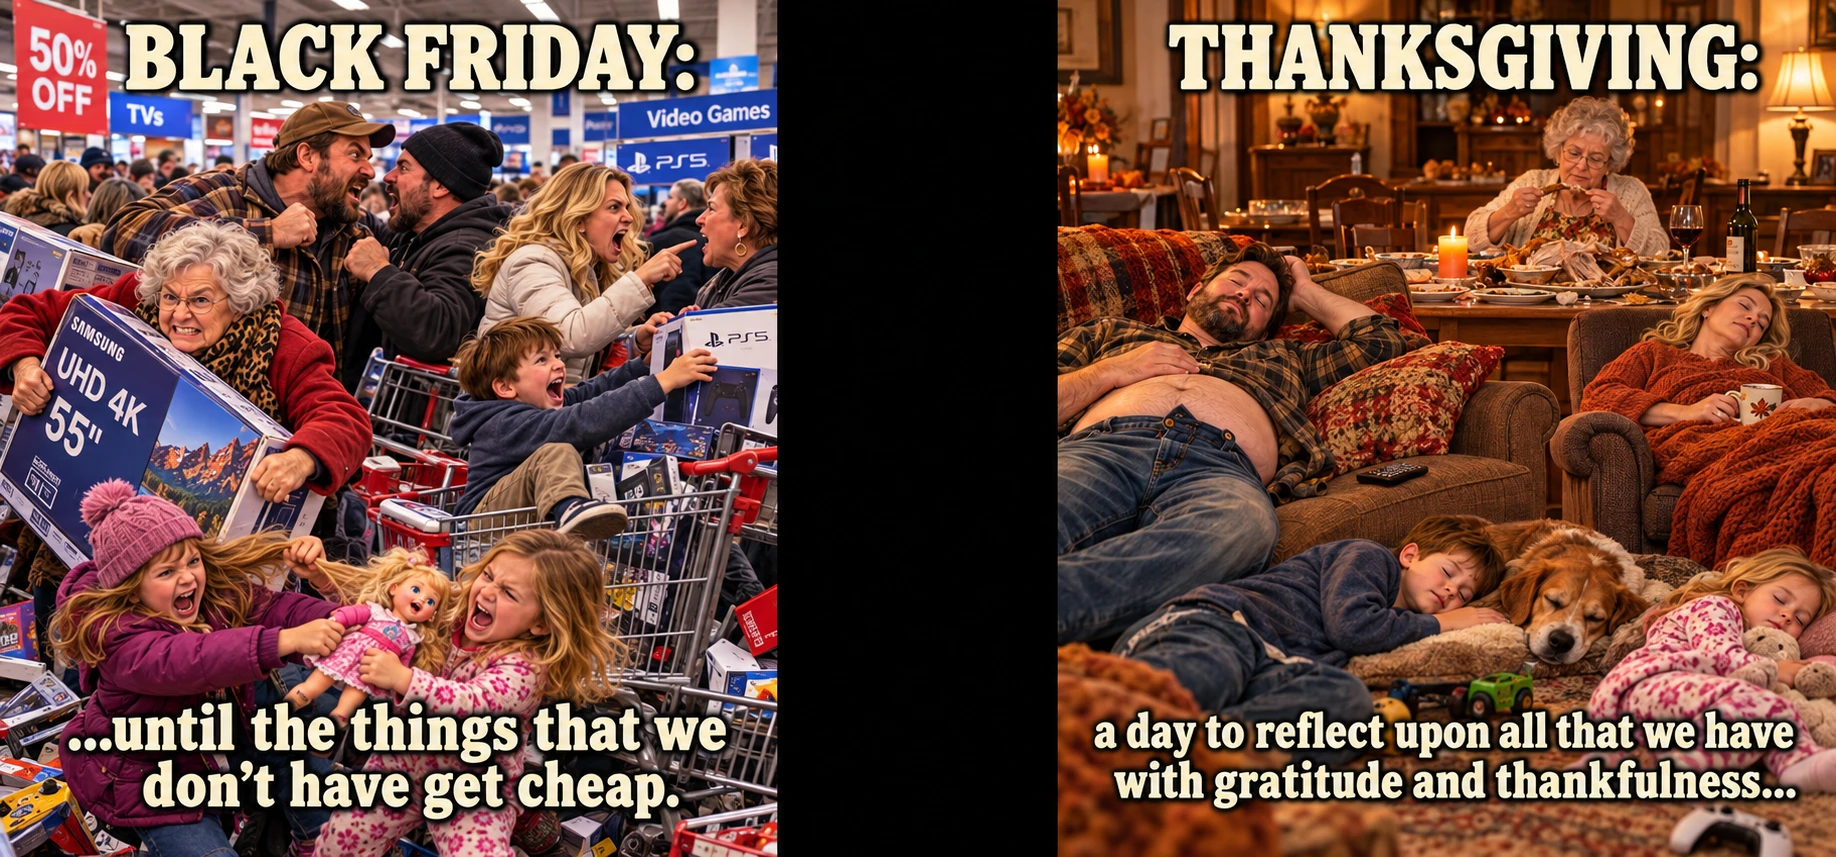
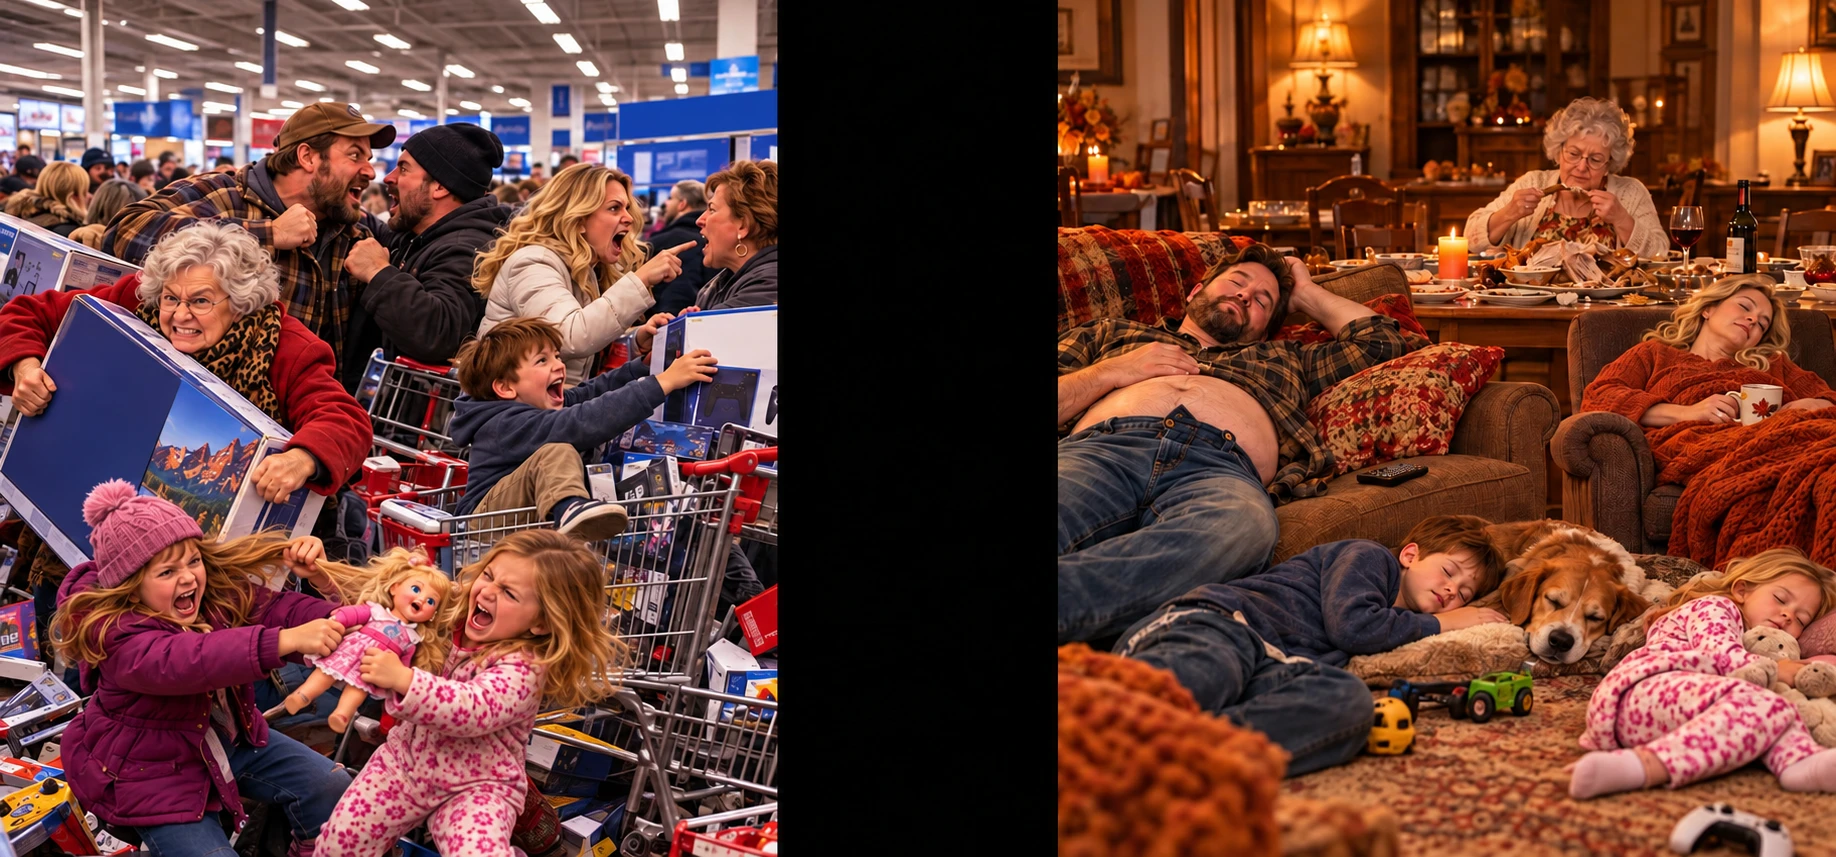
compose-set.py typesets a mug's words; Bud's Black Friday and Six Hours paintings kept
Headings and captions from art/surprise/captions/<name>.json, typeset in the
room the frame leaves clear (off set-frame.png), cream with a dark outline and
shadow, each pair the same size. A near-fit scene fills its place, trimmed
mostly from the bottom so painted clocks and signs stay whole. Not on the
shelf yet.

Claude-Session: https://claude.ai/code/session_01VPDKP5EJZDEyqUkUM3kqQb

diff --git a/tools/surprise/compose-set.py b/tools/surprise/compose-set.py
@@ -2,7 +2,10 @@
 # some of these by just adjusting the fade to the exact criteria that you've
 # laid out for bud. And then recopying the frame").
 #   compose-set.py frame                       -> art/surprise/set-frame.png (from Bud's frame)
-#   compose-set.py <design> <out right.png> <out left.png>
+#   compose-set.py <design> <out right.png> <out left.png> [<captions.json>]
+# captions.json (optional): the words, typeset by the build rather than
+# painted - {"punch": {"top": "...", "bottom": "..."}, "setup": {...}}; each
+# "top" is a heading, each "bottom" a caption; "\n" breaks a line.
 # <design> is right-handed: the punchline on its LEFT half.
 #
 # In layers, bottom to top:
@@ -54,6 +57,8 @@ if sys.argv[1] == 'frame':
     sys.exit()
 
 src, out_r, out_l = sys.argv[1:4]
+import json
+CAPS = json.load(open(sys.argv[4])) if len(sys.argv) > 4 else {}
 S = load(src)
 mx = S.max(axis=2)
 col = np.percentile(mx[int(H * .2):int(H * .8)], 95, axis=0)
@@ -94,18 +99,73 @@ frame = np.asarray(Image.open(FRAME_OUT).convert('RGBA')).astype(float)
 
 def fit(img, zw, zh):
     # Fitted whole; but a scene only a hair off its place's shape is enlarged
-    # to fill it instead, trimming at most 7% of its height top and bottom,
+    # to fill it instead, trimming at most 10% of its height, mostly from the bottom,
     # rather than leaving a sliver beside the rail to fade (Black Friday's
     # "a day to reflect" lost its "a" to that fade).
     h, w = img.shape[:2]; s = min(zw / w, zh / h, 1.25)
+    # A trim of height comes off the bottom (the foreground), keeping the
+    # top whole: that is where the painted clocks and signs are.
     cover = max(zw / w, zh / h)
-    if cover > s and (h * cover - zh) <= 0.07 * zh and (w * cover - zw) <= 0.07 * zw:
+    if cover > s and (h * cover - zh) <= 0.10 * zh and (w * cover - zw) <= 0.07 * zw:
         big = np.asarray(Image.fromarray(img.astype(np.uint8)).resize((round(w * cover), round(h * cover)), Image.LANCZOS)).astype(float)
-        bh, bw = big.shape[:2]; y0 = (bh - zh) // 2; x0 = (bw - zw) // 2
+        bh, bw = big.shape[:2]; y0 = min((bh - zh) // 2, round(0.012 * bh)); x0 = (bw - zw) // 2
         return big[y0:y0 + zh, x0:x0 + zw]
     return np.asarray(Image.fromarray(img.astype(np.uint8)).resize((round(w * s), round(h * s)), Image.LANCZOS)).astype(float)
 
-def compose(left_img, right_img):
+# THE WORDS (Alyx, 28 Sep 2026: Bud "forgot to put the captions on them
+# but ... you could probably do it even better than him"). Typeset in the
+# room the frame leaves clear, measured off set-frame.png: under the top
+# rail between the corner leaves (from y 100), and above the bottom corner
+# pumpkins (to y 1000), and never into a scene's fade into the black middle.
+# Cream letters, a dark brown outline and a soft shadow, sized to fit.
+from PIL import ImageDraw, ImageFont
+FONT = '/usr/share/fonts/truetype/dejavu/DejaVuSerif-Bold.ttf'
+# (x from, x to) by side and band: the bottom corners' pumpkins reach further in
+# than the top corners' leaves. The words may run over a scene's fade into the
+# black - they are drawn after it, so they stay whole.
+ROOM = {('left', 'top'): (190, MID0 - 20), ('left', 'bottom'): (250, MID0 - 20),
+        ('right', 'top'): (MID1 + 20, 2290), ('right', 'bottom'): (MID1 + 20, 2230)}
+TOP_BAND, BOTTOM_BAND = (100, 215), (780, 1000)
+def fit_size(text, x0, x1, y0, y1, biggest):
+    lines = text.split('\n'); d = ImageDraw.Draw(Image.new('L', (8, 8))); size = biggest
+    while size > 20:
+        f = ImageFont.truetype(FONT, size); sw = max(2, size // 11)
+        wd = max(d.textbbox((0, 0), l, font=f, stroke_width=sw)[2] for l in lines)
+        if wd <= x1 - x0 and int(size * 1.18) * len(lines) <= y1 - y0: break
+        size -= 2
+    return size
+BIGGEST = {'top': 92, 'bottom': 60}
+# A heading, or a caption, is the same size on both scenes: the smaller of
+# the two sizes that fit.
+PAIR = {}
+for key, (y0, y1) in (('top', TOP_BAND), ('bottom', BOTTOM_BAND)):
+    got = [fit_size(CAPS[who][key], *ROOM[(side, key)], y0, y1, BIGGEST[key])
+           for who in ('punch', 'setup') for side in ('left', 'right') if CAPS.get(who, {}).get(key)]
+    if got: PAIR[key] = min(got)
+def words(out, caps, side):
+    if not caps: return out
+    im = Image.fromarray(np.clip(out, 0, 255).astype(np.uint8))
+    for key, (y0, y1), biggest in (('top', TOP_BAND, 92), ('bottom', BOTTOM_BAND, 60)):
+        text = caps.get(key)
+        if not text: continue
+        x0, x1 = ROOM[(side, key)]
+        lines = text.split('\n')
+        size = PAIR.get(key, fit_size(text, x0, x1, y0, y1, biggest))
+        f = ImageFont.truetype(FONT, size); sw = max(2, size // 11); lh = int(size * 1.18)
+        top = y0 + ((y1 - y0) - lh * len(lines)) // 2 if key == 'top' else y1 - lh * len(lines)
+        shadow = Image.new('L', im.size, 0); sd = ImageDraw.Draw(shadow)
+        for i, l in enumerate(lines):
+            w = sd.textbbox((0, 0), l, font=f, stroke_width=sw)[2]
+            sd.text(((x0 + x1 - w) // 2 + 3, top + i * lh + 4), l, font=f, fill=255, stroke_width=sw + 3, stroke_fill=255)
+        shadow = shadow.filter(ImageFilter.GaussianBlur(6))
+        im = Image.composite(Image.new('RGB', im.size, (10, 5, 0)), im, shadow.point(lambda v: int(v * 0.75)))
+        d = ImageDraw.Draw(im)
+        for i, l in enumerate(lines):
+            w = d.textbbox((0, 0), l, font=f, stroke_width=sw)[2]
+            d.text(((x0 + x1 - w) // 2, top + i * lh), l, font=f, fill=(247, 236, 210), stroke_width=sw, stroke_fill=(42, 24, 12))
+    return np.asarray(im).astype(float)
+
+def compose(left_img, right_img, left_caps=None, right_caps=None):
     out = np.full((H, W, 3), 255.0)
     out[IY0:IY1, IX0:IX1] = 0
     zh = IY1 - IY0
@@ -124,10 +184,11 @@ def compose(left_img, right_img):
         if zh - h > 4:
             yy = np.arange(h); kyv = ss(yy / EDGE) * ss((h - 1 - yy) / EDGE)
         out[y:y + h, x:x + w] = im * k[None, :, None] * kyv[:, None, None]
+    out = words(out, left_caps, 'left'); out = words(out, right_caps, 'right')
     a = frame[..., 3:] / 255
     out = frame[..., :3] * a + out * (1 - a)
     return Image.fromarray(np.clip(out, 0, 255).astype(np.uint8))
 
-compose(punch, setup).save(out_r, optimize=True)
-compose(setup, punch).save(out_l, optimize=True)
+compose(punch, setup, CAPS.get('punch'), CAPS.get('setup')).save(out_r, optimize=True)
+compose(setup, punch, CAPS.get('setup'), CAPS.get('punch')).save(out_l, optimize=True)
 print(f'{src}: scenes {punch.shape[1]}x{punch.shape[0]} and {setup.shape[1]}x{setup.shape[0]} ({"Bud remake" if white_edged else "older, framed" if framed else "older"})')
